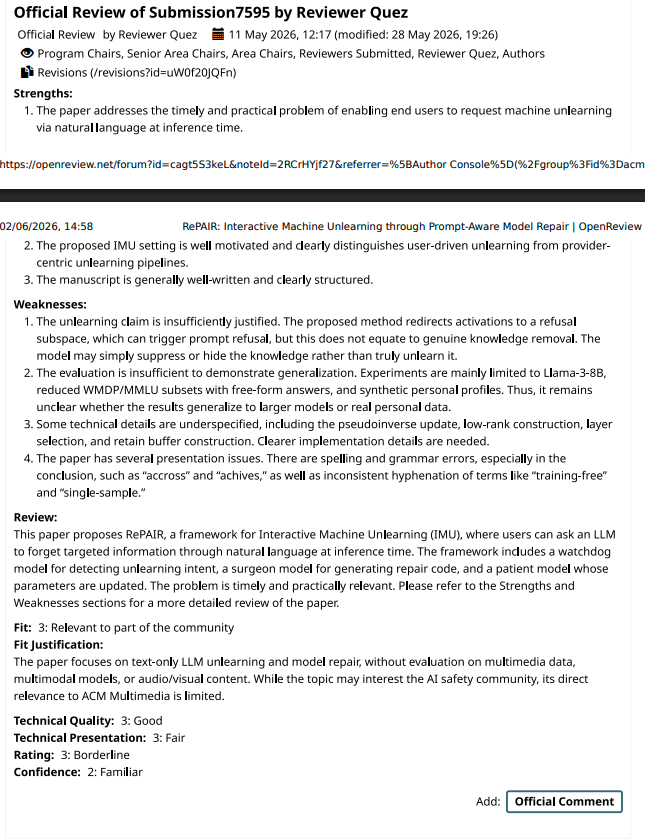
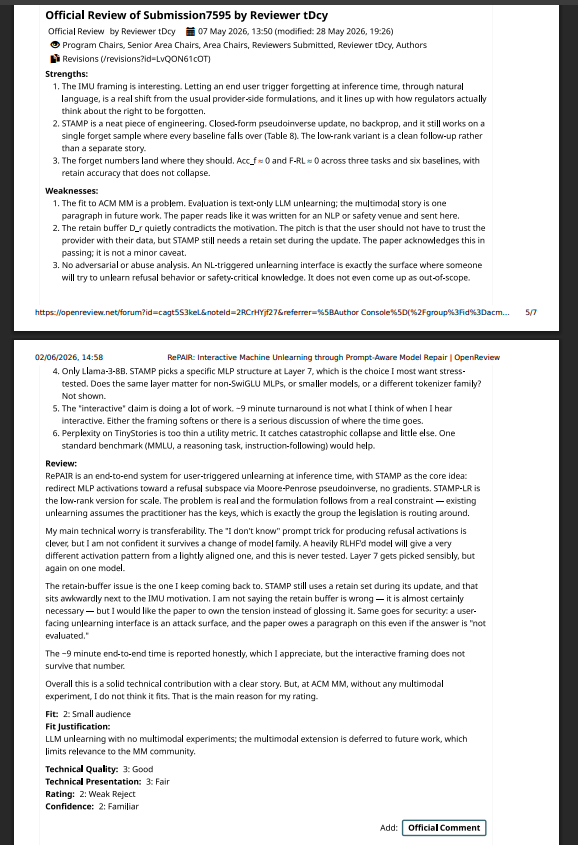
update

diff --git a/section/6_discussions.tex b/section/6_discussions.tex
@@ -5,10 +5,13 @@ Despite its effectiveness, RePAIR has several limitations.
 \textbf{Scope of the single-sample claim.} \textit{Single-sample} refers to the size of the forget set, $|\mathcal{D}_f| = 1$. Existing LLM unlearning methods need a batch of forget examples and fail at this granularity (Table~\ref{tab:single_sample}), whereas STAMP removes a target from one. It does not mean that no other data is used, since the retain buffer and the shared reference set $\mathcal{D}_{\textit{ref}}$ of 200 refusal prompts, which is fixed across all requests, are still required.
 
 \noindent
-\textbf{Retain data at inference time.} Although STAMP operates with as little as a 10\% retain ratio (Table~\ref{tab:retain_ratio}), it still requires a small replay buffer $\mathcal{D}_r$. This dependence is not specific to STAMP, as every baseline we compare against also relies on retain data, and retain-free unlearning is an emerging direction rather than a solved one. FLAT~\cite{wang2024llm} is the notable exception, operating on $\mathcal{D}_f$ alone through a regularizer. Storing the buffer on an edge device sits uneasily with the GDPR and CCPA motivation on which the framework rests, since the user must keep a slice of the data the system is meant to remove.
+\textbf{Retain data at inference time.} All reported results use a retain buffer of 10\% of the full retain set, which Table~\ref{tab:retain_ratio} shows is sufficient, but STAMP still requires a replay buffer $\mathcal{D}_r$. This dependence is not specific to STAMP, as every baseline we compare against also relies on retain data, and retain-free unlearning is an emerging direction rather than a solved one. FLAT~\cite{wang2024llm} is the notable exception, operating on $\mathcal{D}_f$ alone through a regularizer. Storing the buffer on an edge device sits uneasily with the GDPR and CCPA motivation on which the framework rests, since the user must keep a slice of the data the system is meant to remove.
 
 \noindent
 \textbf{Three models rather than one.} RePAIR assigns intent detection, repair-code generation, and the edit itself to three separate models. This reflects the open-weight models available to us rather than a requirement of the method, since no single open model we tested was at once a reliable intent classifier and a competent code generator. A model strong in both general reasoning and code would subsume all three roles, allowing $\mathcal{M}_{\textit{watchdog}}$ and $\mathcal{M}_{\textit{surgeon}}$ to be dropped and leaving a single model that repairs itself.
 
 \noindent
 \textbf{Resource constraints at test time.} As shown in Table~\ref{tab:cost_comparison}, training-based methods require significantly more GPU memory than is typically available at inference. STAMP-LR substantially reduces this cost, but the full RePAIR pipeline still orchestrates three models in the 7B to 8B parameter range, which remains beyond the memory budget of most edge hardware. Collapsing the pipeline to a single model, as above, would remove this overhead entirely.
+
+\noindent
+\textbf{Abuse of the interface.} A natural-language unlearning channel is itself an attack surface, since the same request that removes a private fact could be used to remove refusal behaviour or safety-critical knowledge. We do not evaluate this, and we leave access control and deployment guidelines to future work. The exposure is bounded by the setting we target, namely a personal model whose knowledge resides in the weights, such as a standalone model provisioned for a single user who cannot write unlearning code. Hosted assistants instead hold personal details in the context window and answer from it, in which case $\mathcal{M}_{\textit{surgeon}}$ would rewrite the context rather than the weights, and the weight-level update studied here does not apply.

diff --git a/section/4_method.tex b/section/4_method.tex
@@ -67,7 +67,7 @@ W_{\mathrm{new}} = \mathbf{H}^{+} \cdot O'
 
 This yields the minimum-norm solution and completes STAMP. The forget activations are redirected to the refusal subspace, the retain activations are held fixed, and no gradient is ever computed. The cost, however, is dictated entirely by the $m \times m$ system that must be formed and inverted. Computing $(\mathbf{H}^\top \mathbf{H} + \lambda I)^{-1} \in \mathbb{R}^{m \times m}$ requires $\mathcal{O}(m^3)$ operations, and, more restrictively, materializing the Gram matrix occupies $\mathcal{O}(m^2)$ memory, roughly $822$\,MB in single precision for Llama-3-8B. Both costs are governed by the FFN width $m$ and are therefore paid in full even when a single sample is being forgotten. This is the wrong scaling for the interactive, on-device setting that IMU targets, and it motivates our second solution.
 
-\textbf{STAMP-LR (Low-Rank Solution).} The inefficiency above arises from solving in the full $m$-dimensional space even though $\mathbf{H}$ has rank at most $n \ll m$. We therefore approximate $\mathbf{H} \approx A B$, where $A \in \mathbb{R}^{n \times r}$ and $B \in \mathbb{R}^{r \times m}$, with $r \ll m$,
+\textbf{STAMP-LR (Low-Rank Solution).} The inefficiency above arises from solving in the full $m$-dimensional space even though $\mathbf{H}$ has rank at most $n \ll m$. We therefore sketch $\mathbf{H} \approx A B$, where $B \in \mathbb{R}^{r \times m}$ is a random matrix whose rows are orthonormalised by a QR decomposition, and $A = \mathbf{H} B^{\top} \in \mathbb{R}^{n \times r}$ is the projection of $\mathbf{H}$ onto that subspace, with $r \ll m$. Drawing $B$ at random rather than from a truncated SVD of $\mathbf{H}$ avoids a second factorisation, and the resulting projection costs $\mathcal{O}(n\,m\,r)$, which is dominated by the forward pass since $r \ll d$. The pseudoinverses of the two factors are then
 \begin{equation}
 A^{+} = (A^\top A)^{-1} A^\top, \quad
 B^{+} = B^\top (B B^\top)^{-1}